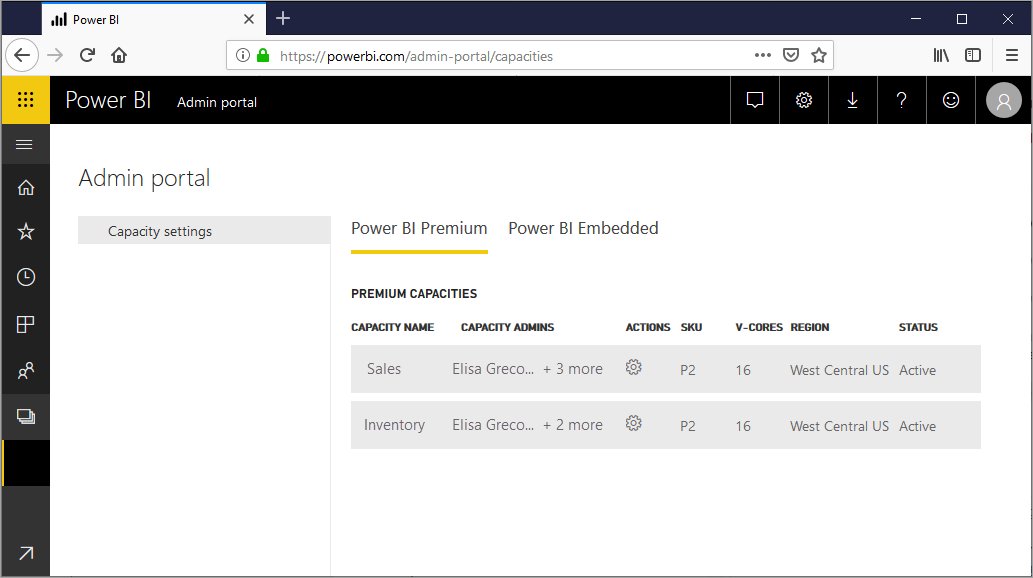
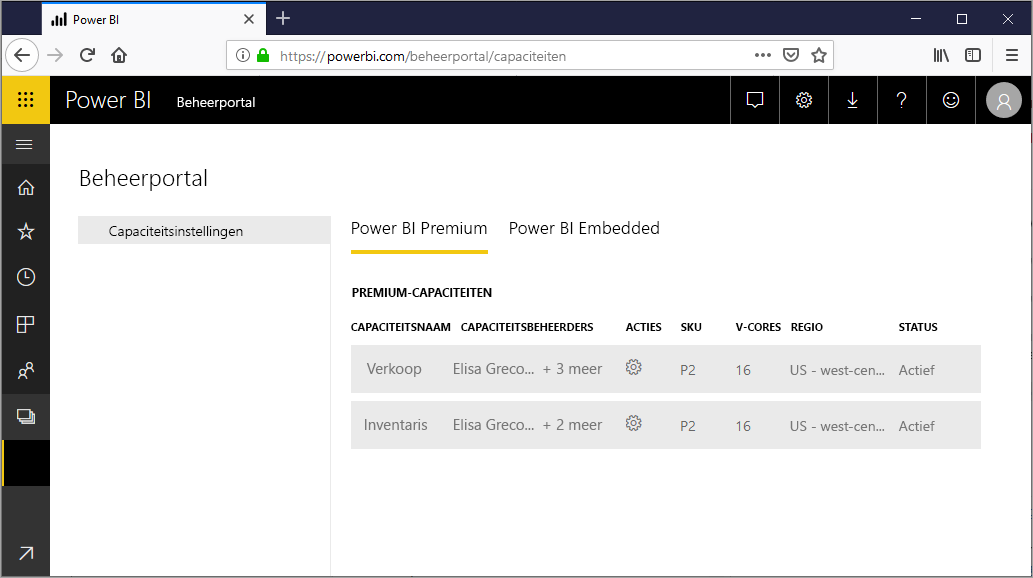
commit translated contents

diff --git a/powerbi-docs/learning-catalog/paginated-reports-online-course.md b/powerbi-docs/learning-catalog/paginated-reports-online-course.md
@@ -1,0 +1,119 @@
+---
+title: De cursus Gepagineerde rapporten in Power BI in een dag
+description: Deze online cursus biedt u, als rapportauteur, de technische kennis die vereist is voor het maken, publiceren en distribueren van gepagineerde Power BI-rapporten.
+author: peter-myers
+ms.reviewer: maggies
+featuredvideoid: DN1t5p9aui0
+ms.service: powerbi
+ms.subservice: report-builder
+ms.topic: tutorial
+ms.date: 03/18/2020
+ms.author: v-pemyer
+ms.openlocfilehash: 3b6c3f79b6695c670b942253ddd2c2b158dc3acc
+ms.sourcegitcommit: 250242fd6346b60b0eda7a314944363c0bacaca8
+ms.translationtype: HT
+ms.contentlocale: nl-NL
+ms.lasthandoff: 05/20/2020
+ms.locfileid: "83693231"
+---
+# <a name="power-bi-paginated-reports-in-a-day-course"></a>De cursus Gepagineerde rapporten in Power BI in een dag
+
+De videocursus **Gepagineerde Power BI-rapporten in een dag** biedt u, als rapportauteur, de technische kennis die vereist is voor het maken, publiceren en distribueren van gepagineerde Power BI-rapporten. Deze omvat bijna 4 uur en 20 minuten aan te bekijken inhoud, on demand beschikbaar, en is gratis. Er is ook een [zelfstudiekit](#self-study-kit), die u kunt downloaden en gebruiken om acht praktijklabs uit te voeren.
+
+De cursus is voornamelijk gericht op:
+
+- Auteurs van Power BI-rapporten
+- Excel-analisten
+- Auteurs van rapporten met SSRS-vaardigheden (SQL Server Reporting Services), die hun kennis willen opfrissen
+- Auteurs van Crystal-rapporten
+
+Nadat u de cursus hebt voltooid, kunt u het volgende:
+
+> [!div class="checklist"]
+> - Rapportindelingen ontwerpen
+> - Verbinding maken met gegevensbronnen om rapportgegevens op te halen
+> - Werken met parameters
+> - Rapportgegevens visualiseren
+> - Interactieve functies toevoegen
+> - Gepagineerde rapporten publiceren, gebruiken, leveren en insluiten
+
+Bekijk de welkomst- en inleidingsvideo om de cursus te starten.
+
+> [!VIDEO https://www.youtube.com/embed/DN1t5p9aui0]
+
+## <a name="course-outline"></a>Cursusoverzicht
+
+De [cursus van 24 video's](https://www.youtube.com/playlist?list=PL1N57mwBHtN1icIhpjQOaRL8r9G-wytpT) is onderverdeeld in acht modules. We raden u aan de video's te bekijken in de vastgelegde volgorde, beginnend bij video 01 en eindigend bij video 24.
+
+- **Inleiding**
+  - Video 01: [Welkom en cursusintroductie](https://www.youtube.com/watch?v=DN1t5p9aui0&list=PL1N57mwBHtN1icIhpjQOaRL8r9G-wytpT)
+- **Module 01: Power BI-rapportage**
+  - Video 02: [Power BI-rapportage - Deel 1](https://www.youtube.com/watch?v=s6Amctk3Z_g&list=PL1N57mwBHtN1icIhpjQOaRL8r9G-wytpT)
+  - Video 03: [Power BI-rapportage - Deel 2](https://www.youtube.com/watch?v=jXTiYJKw1Rs&list=PL1N57mwBHtN1icIhpjQOaRL8r9G-wytpT)
+- **Module 02: Rapportindelingen ontwerpen**
+  - Video 04: [Rapportindelingen ontwerpen - Deel 1](https://www.youtube.com/watch?v=EjHANN3rGNs&list=PL1N57mwBHtN1icIhpjQOaRL8r9G-wytpT)
+  - Video 05: [Rapportindelingen ontwerpen - Deel 2](https://www.youtube.com/watch?v=2CZIrJU_HZU&list=PL1N57mwBHtN1icIhpjQOaRL8r9G-wytpT)
+  - Video 06: [Rapportindelingen ontwerpen - Deel 3](https://www.youtube.com/watch?v=eaFFzkT6pxE&list=PL1N57mwBHtN1icIhpjQOaRL8r9G-wytpT)
+  - Video 07: [Rapportindelingen ontwerpen - Deel 4](https://www.youtube.com/watch?v=0z576TI27Vg&list=PL1N57mwBHtN1icIhpjQOaRL8r9G-wytpT)
+- **Module 03: Rapportgegevens ophalen**
+  - Video 08: [Rapportgegevens ophalen - Deel 1](https://www.youtube.com/watch?v=SHGTTYXtio0&list=PL1N57mwBHtN1icIhpjQOaRL8r9G-wytpT)
+  - Video 09: [Rapportgegevens ophalen - Deel 2](https://www.youtube.com/watch?v=1Dzd9wb7XUY&list=PL1N57mwBHtN1icIhpjQOaRL8r9G-wytpT)
+  - Video 10: [Rapportgegevens ophalen - Deel 3](https://www.youtube.com/watch?v=OFXG7sl5L2o&list=PL1N57mwBHtN1icIhpjQOaRL8r9G-wytpT)
+- **Module 04: Werken met parameters**
+  - Video 11: [Werken met parameters - Deel 1](https://www.youtube.com/watch?v=o7WaK88kheA&list=PL1N57mwBHtN1icIhpjQOaRL8r9G-wytpT)
+  - Video 12: [Werken met parameters - Deel 2](https://www.youtube.com/watch?v=okj6wO72clQ&list=PL1N57mwBHtN1icIhpjQOaRL8r9G-wytpT)
+  - Video 13: [Werken met parameters - Deel 3](https://www.youtube.com/watch?v=13-6sWIRD74&list=PL1N57mwBHtN1icIhpjQOaRL8r9G-wytpT)
+- **Module 05: Rapportgegevens visualiseren**
+  - Video 14: [Rapportgegevens visualiseren - Deel 1](https://www.youtube.com/watch?v=b4TxBBtOWSw&list=PL1N57mwBHtN1icIhpjQOaRL8r9G-wytpT)
+  - Video 15: [Rapportgegevens visualiseren - Deel 2](https://www.youtube.com/watch?v=JhEa_TugXeE&list=PL1N57mwBHtN1icIhpjQOaRL8r9G-wytpT)
+  - Video 16: [Rapportgegevens visualiseren - Deel 3](https://www.youtube.com/watch?v=dliLsRvQB-c&list=PL1N57mwBHtN1icIhpjQOaRL8r9G-wytpT)
+  - Video 17: [Rapportgegevens visualiseren - Deel 4](https://www.youtube.com/watch?v=5yHxuRRP_eU&list=PL1N57mwBHtN1icIhpjQOaRL8r9G-wytpT)
+- **Module 06: Interactieve functies toevoegen**
+  - Video 18: [Interactieve functies toevoegen - Deel 1](https://www.youtube.com/watch?v=LInMHpTEaI0&list=PL1N57mwBHtN1icIhpjQOaRL8r9G-wytpT)
+  - Video 19: [Interactieve functies toevoegen - Deel 2](https://www.youtube.com/watch?v=b_pr1xsbRJc&list=PL1N57mwBHtN1icIhpjQOaRL8r9G-wytpT)
+- **Module 07: Meer doen met rapportontwikkeling**
+  - Video 20: [Meer doen met rapportontwikkeling - Deel 1](https://www.youtube.com/watch?v=1CgDVDslwvs&list=PL1N57mwBHtN1icIhpjQOaRL8r9G-wytpT)
+  - Video 21: [Meer doen met rapportontwikkeling - Deel 2](https://www.youtube.com/watch?v=KRwtl7h0ynI&list=PL1N57mwBHtN1icIhpjQOaRL8r9G-wytpT)
+- **Module 08: Bonusinhoud**
+  - Video 22: [Bonusinhoud: Samenvatting](https://www.youtube.com/watch?v=w5zlJ8BodxI&list=PL1N57mwBHtN1icIhpjQOaRL8r9G-wytpT)
+  - Video 23: [Bonusinhoud: Ontwikkeling van gepagineerde rapporten](https://www.youtube.com/watch?v=pevpai65MvY&list=PL1N57mwBHtN1icIhpjQOaRL8r9G-wytpT)
+  - Video 24: [Bonusinhoud: De drempel voor toetreding verlagen](https://www.youtube.com/watch?v=vu32LfckCt8&list=PL1N57mwBHtN1icIhpjQOaRL8r9G-wytpT)
+
+## <a name="self-study-kit"></a>Zelfstudiekit
+
+U kunt een zelfstudiekit downloaden en instellen, die bestaat uit een presentatie van de inhoud en acht praktijklabs:
+
+1. Gebruik [deze koppeling](https://aka.ms/priad-student) om de zelfstudiekit (.zip) lokaal te downloaden naar uw pc.
+1. Open de bestandseigenschappen en schakel het selectievakje Blokkering opheffen in (Windows markeert het bestand mogelijk niet-vertrouwd).
+1. Pak de bestandsinhoud uit naar een map in uw bestandssysteem. Het wordt aanbevolen een map te maken die gemakkelijk te vinden is, met als mogelijke naam **Training**. De labdocumenten verwijzen naar deze locatie als **&lt;CourseFolder&gt;** .
+
+Zodra het bestand is uitgepakt, vindt u de map **PowerBIPRIAD**, waarin u de volgende mappen aantreft:
+
+- **Lab01A** (en alle andere labmappen). De labmappen bevatten het labdocument en labresources, eventueel met inbegrip van activa en oplossingsbestanden.
+- **MySolution**: In deze map worden uw oplossingsbestanden opgeslagen. Via de labinstructies krijgt u aanwijzingen wanneer u deze moet gebruiken.
+- **Presentatie**: Deze map bevat het bestand met een presentatie van de cursus, die beschikbaar is als PDF-document.
+
+### <a name="getting-started-with-the-kit"></a>Aan de slag met de kit
+
+Het wordt aanbevolen de onlinecursus eerst te bekijken. U kunt teruggaan naar de presentatietheorie door het bestand **&lt;CourseFolder&gt;\PowerBIPRIAD\Presentation\PowerBIPRIAD_Presentation.pdf** te openen. De presentatie bevat acht labdia's, die aangeven wanneer het tijd is om de theorie te oefenen. Deze bevat ook veel resourcekoppelingen waarmee u gerelateerde inhoud kunt vinden.
+
+Wanneer u klaar bent om met het eerste lab te beginnen, opent u het bestand **&lt;CourseFolder&gt;\PowerBIPRIAD\Lab01A\PowerBIPRIAD_Lab01A.pdf**. In dit document vindt u instructies voor het aanmelden bij de Power BI-service, het uploaden van een gegevensset en vervolgens het installeren van [Power BI Report Builder](../paginated-reports/report-builder-power-bi.md).
+
+> [!NOTE]
+> U bent zelf verantwoordelijk voor het gebruik van uw eigen Power BI-account. Als u er nog geen hebt, raadpleegt u [Registreren voor Power BI als individu](../fundamentals/service-self-service-signup-for-power-bi.md).
+>
+> U moet zich aanmelden bij Power BI om een Power BI Desktop-bestand te publiceren naar een werkruimte. De publicatie resulteert in een gegevensset die wordt gebruikt als rapportgegevensbron. U hebt geen Power BI Pro-licentie of een Power BI Premium-abonnement nodig om een gegevensset als rapportgegevensbron te gebruiken.
+>
+> Bij sommige labtaken moet u uw gepagineerde rapport naar een werkruimte publiceren. U kunt een gepagineerd rapport alleen openen wanneer dit is opgeslagen in een werkruimte op [toegewezen capaciteit](../admin/service-premium-what-is.md#dedicated-capacities), waarin de workload gepagineerde rapporten is ingeschakeld. Als u geen toegang hebt tot een geschikte werkruimte, wordt een koppeling weergegeven naar een video waarin de publicatie van het rapport wordt gedemonstreerd.
+
+## <a name="instructor-kit"></a>Kit voor docenten
+
+Gebruik [deze koppeling](https://aka.ms/priad-instructor) om de kit voor docenten (.zip) lokaal te downloaden naar uw pc.
+
+## <a name="next-steps"></a>Volgende stappen
+
+Bekijk de volgende resources voor meer informatie over dit artikel:
+
+- Zelfstudie: [Een gepagineerd rapport maken en uploaden naar de Power BI-service](../paginated-reports/paginated-reports-quickstart-aw.md)
+- Vragen? [Misschien dat de Power BI-community het antwoord weet](https://community.powerbi.com/)
+- Suggesties? [Ideeën bijdragen om Power BI te verbeteren](https://ideas.powerbi.com/)

diff --git a/powerbi-docs/admin/service-admin-signing-up-for-power-bi-with-a-new-office-365-trial.md b/powerbi-docs/admin/service-admin-signing-up-for-power-bi-with-a-new-office-365-trial.md
@@ -6,57 +6,57 @@ ms.reviewer: ''
 ms.service: powerbi
 ms.subservice: powerbi-admin
 ms.topic: conceptual
-ms.date: 04/24/2020
+ms.date: 05/17/2020
 ms.author: mihart
 LocalizationGroup: Administration
-ms.openlocfilehash: b74d06c9be03ae98fb6c8b2e38f665f9bbcc92b1
-ms.sourcegitcommit: bfc2baf862aade6873501566f13c744efdd146f3
+ms.openlocfilehash: 9db228253e0e88105108a1b3a5eaf725c73e0abb
+ms.sourcegitcommit: a72567f26c1653c25f7730fab6210cd011343707
 ms.translationtype: HT
 ms.contentlocale: nl-NL
-ms.lasthandoff: 05/13/2020
-ms.locfileid: "83345050"
+ms.lasthandoff: 05/19/2020
+ms.locfileid: "83563643"
 ---
 # <a name="signing-up-for-power-bi-with-a-new-microsoft-365-trial"></a>Registreren voor Power BI met een nieuwe proefversie van Microsoft 365
 
-In dit artikel wordt een alternatieve manier beschreven om u te registreren voor Power BI, als u nog geen e-mailaccount voor werk of school hebt. 
+In dit artikel wordt een alternatieve manier beschreven om u te registreren voor Power BI, als u nog geen e-mailaccount voor werk of school hebt.
 
 Als het niet lukt om u met uw e-mailadres te registreren voor Power BI, controleert u eerst of het wel een [e-mailadres is dat kan worden gebruikt met Power BI](../fundamentals/service-self-service-signup-for-power-bi.md#supported-email-addresses). Als dat niet lukt, registreert u zich voor een Microsoft 365-proefversie en maakt u een werkaccount. Gebruik vervolgens dat nieuwe werkaccount om u te registreren voor de Power BI-service. U kunt Power BI ook na afloop van de proefversie van Microsoft 365 nog gebruiken.
 
 > [!NOTE]
 > De naam Office 365 is onlangs gewijzigd in Microsoft 365. Tot al onze artikelen zijn bijgewerkt, kunt u de aanduiding Office 365 nog steeds tegenkomen.
 
-1. Meld u aan voor een proefversie van Microsoft 365 [op de website van Microsoft 365](https://www.microsoft.com/en-us/microsoft-365/business/compare-more-office-365-for-business-plans).
+## <a name="sign-up-for-a-microsoft-365-trial-of-office"></a>Meld u aan voor een proefversie van Microsoft 365 van Office
+Meld u aan voor een proefversie van Microsoft 365 [op de website van Microsoft 365](https://www.microsoft.com/microsoft-365/business/compare-more-office-365-for-business-plans). Als u nog geen account hebt, helpt Microsoft u met stapsgewijze instructies om er een te maken. Omdat commerciële e-mailaccounts (zoals Hotmail en Gmail) niet werken met Microsoft 365, maakt u een nieuw account dat wel werkt.  Dit e-mail account ziet er ongeveer als volgt uit: *zalan@onmicrosoft.com* .
 
-    ![welkomstpagina](media/service-admin-signing-up-for-power-bi-with-a-new-office-365-trial/power-bi-try-now.png)
+![Selecteer Gratis proberen](media/service-admin-signing-up-for-power-bi-with-a-new-office-365-trial/power-bi-try-free.png)
 
-    ![Kiezen om u te registreren voor een nieuw account](media/service-admin-signing-up-for-power-bi-with-a-new-office-365-trial/power-bi-existing.png)
+Als u **Office 365 E5** selecteert, bevat uw proefversie ook Power BI Pro. De proefversie van Power BI Pro verloopt op hetzelfde moment als uw proefversie van Office 365 E5, die momenteel 30 dagen geldig is. Als u in plaats daarvan **Office 365 E3** selecteert, kunt u zich als *gratis* gebruiker aanmelden voor Power BI en upgraden naar **Pro** voor een proefversie van 60 dagen. 
 
-    ![een werk- of schoolaccount maken](media/service-admin-signing-up-for-power-bi-with-a-new-office-365-trial/power-bi-create-email.png)
+1. Voer uw e-mailadres in. Microsoft laat u weten of dat e-mailadres werkt met Microsoft 365 of dat u een nieuw e-mailadres moet maken.  ![welkomstpagina](media/service-admin-signing-up-for-power-bi-with-a-new-office-365-trial/power-bi-setup.png)
 
-    ![Kiezen om u te registreren voor een nieuw account](media/service-admin-signing-up-for-power-bi-with-a-new-office-365-trial/power-bi-no-email.png)
+    Als u een nieuw e-mailadres nodig hebt, helpt Microsoft u met stapsgewijze instructies om er een te maken. Eerst moet u een nieuw account maken. Selecteer **Account instellen**.
 
-    ![uw contactgegevens invoeren](media/service-admin-signing-up-for-power-bi-with-a-new-office-365-trial/power-bi-welcome-you.png)
+    ![Kiezen om u te registreren voor een nieuw account](media/service-admin-signing-up-for-power-bi-with-a-new-office-365-trial/power-bi-email.png)
 
-    
+2. Voer details over het nieuwe account in.
 
-1. Maak uw nieuwe zakelijke aanmeldingsnaam die eruitziet als you@yourcompany.onmicrosoft.com. Gebruik deze aanmelding met Power BI.
+    ![een werk- of schoolaccount maken](media/service-admin-signing-up-for-power-bi-with-a-new-office-365-trial/power-bi-enter-info.png)
 
-    ![werkadres maken](media/service-admin-signing-up-for-power-bi-with-a-new-office-365-trial/power-bi-create-address.png)
+3. Maak een nieuw e-mailadres en wachtwoord. Maak een nieuwe aanmeldingsnaam die eruitziet als you@yourcompany.onmicrosoft.com. Dit zijn de aanmeldingsgegevens die u gebruikt voor uw nieuwe Office 365-account en voor Power BI.
 
-    ![code ophalen op basis van tekst](media/service-admin-signing-up-for-power-bi-with-a-new-office-365-trial/power-bi-robot.png)    
+    ![Kiezen om u te registreren voor een nieuw account](media/service-admin-signing-up-for-power-bi-with-a-new-office-365-trial/power-bi-create-account.png)
 
-1. Mogelijk moet u wachten terwijl de nieuwe tenant wordt gemaakt. 
+4. Dat is alles.  U hebt nu een e-mailadres dat u kunt gebruiken om u te registreren voor Power BI. Doorgaan om [u als zelfstandige gebruiker te registreren voor de Power BI-service](../service-self-service-signup-for-power-bi.md)
 
-Dat is alles.  U hebt nu een e-mailadres dat u kunt gebruiken om u te registreren voor Power BI. Doorgaan om [u als zelfstandige gebruiker te registreren voor de Power BI-service](../fundamentals/service-self-service-signup-for-power-bi.md)
+     ![uw contactgegevens invoeren](media/service-admin-signing-up-for-power-bi-with-a-new-office-365-trial/power-bi-thank.png)
 
-
-
-
+    Mogelijk moet u wachten terwijl de nieuwe tenant wordt gemaakt.
 
 ## <a name="important-considerations"></a>Belangrijke overwegingen
-Als er problemen zijn met het aanmelden met het nieuwe account, probeer het dan met een persoonlijke browsersessie.    
 
-Als u deze aanmeldingsmethode gebruikt, maakt u een nieuwe organisatietenant en wordt u de beheerder van de tenant. Zie [Wat is Power BI-beheer?](service-admin-administering-power-bi-in-your-organization.md) voor meer informatie. U kunt nieuwe gebruikers toevoegen aan uw tenant en vervolgens met hun delen, zoals wordt beschreven in de [documentatie voor Microsoft 365-beheerders](https://support.office.com/en-sg/article/Add-users-individually-to-Office-365---Admin-Help-1970f7d6-03b5-442f-b385-5880b9c256ec).
+Als er problemen zijn met het aanmelden met het nieuwe account, probeer het dan met een persoonlijke browsersessie.
+
+Als u deze aanmeldingsmethode gebruikt, maakt u een nieuwe organisatietenant en wordt u de beheerder van de tenant. Zie [Wat is Power BI-beheer?](service-admin-administering-power-bi-in-your-organization.md) voor meer informatie. U kunt nieuwe gebruikers toevoegen aan uw tenant en vervolgens met hun delen, zoals wordt beschreven in de [documentatie voor Microsoft 365-beheerders](https://support.office.com/article/Add-users-individually-to-Office-365---Admin-Help-1970f7d6-03b5-442f-b385-5880b9c256ec).
 
 ## <a name="next-steps"></a>Volgende stappen
 

diff --git a/powerbi-docs/collaborate-share/service-manage-app-workspace-in-power-bi-and-office-365.md b/powerbi-docs/collaborate-share/service-manage-app-workspace-in-power-bi-and-office-365.md
@@ -1,6 +1,6 @@
 ---
-title: Uw werkruimte beheren in Power BI en Office 365
-description: Werkruimten in Power BI zijn een samenwerkingsfunctie die is gebaseerd op Office 365-groepen. Beheer uw werkruimten in Power BI en ook in Office 365.
+title: Uw werkruimte beheren in Power BI en Microsoft 365
+description: Werkruimten in Power BI zijn een samenwerkingsfunctie die is gebaseerd op Microsoft 365-groepen. Beheer uw werkruimten in Power BI en ook in Microsoft 365.
 author: maggiesMSFT
 ms.reviewer: lukasz
 ms.service: powerbi
@@ -9,27 +9,27 @@ ms.topic: conceptual
 ms.date: 03/02/2020
 ms.author: maggies
 LocalizationGroup: Share your work
-ms.openlocfilehash: 27f3c88607f57be8b5abffdbec71ecfe80beea23
-ms.sourcegitcommit: bfc2baf862aade6873501566f13c744efdd146f3
+ms.openlocfilehash: 1365eba697538255ea8c23b03f0b5db71a7ba1cd
+ms.sourcegitcommit: 250242fd6346b60b0eda7a314944363c0bacaca8
 ms.translationtype: HT
 ms.contentlocale: nl-NL
-ms.lasthandoff: 05/13/2020
-ms.locfileid: "83348063"
+ms.lasthandoff: 05/20/2020
+ms.locfileid: "83693806"
 ---
-# <a name="manage-your-workspace-in-power-bi-and-office-365"></a>Uw werkruimte beheren in Power BI en Office 365
+# <a name="manage-your-workspace-in-power-bi-and-microsoft-365"></a>Uw werkruimte beheren in Power BI en Microsoft 365
 
-Als maker of beheerder van een [werkruimte in Power BI](service-create-distribute-apps.md) of in Office 365, beheert u bepaalde aspecten van de werkruimte in Power BI. Andere aspecten beheert u in Office 365.
+Als maker of beheerder van een [werkruimte in Power BI](service-create-distribute-apps.md) of in Microsoft 365, beheert u bepaalde aspecten van de werkruimte in Power BI. Andere aspecten beheert u in Microsoft 365.
 
 > [!NOTE]
-> In de nieuwe werkruimte-ervaring is de relatie tussen Power BI-werkruimten en Office 365-groepen gewijzigd. Er wordt niet automatisch een Office 365-groep gemaakt wanneer u een van de nieuwe werkruimten maakt. Meer informatie over [het maken van de nieuwe werkruimten](service-create-the-new-workspaces.md).
+> In de nieuwe werkruimte-ervaring is de relatie tussen Power BI-werkruimten en Microsoft 365-groepen gewijzigd. Er wordt niet automatisch een Microsoft 365-groep gemaakt wanneer u een van de nieuwe werkruimten maakt. Meer informatie over [het maken van de nieuwe werkruimten](service-create-the-new-workspaces.md).
 
 In **Power BI** kunt u:
 
 * Leden aan een werkruimte toevoegen of hieruit verwijderen. U kunt een lid van de werkruimte ook beheerder maken.
 * Bewerk de naam van de werkruimte.
-* Verwijder de werkruimte. Hierdoor wordt ook de Office 365-groep verwijderd.
+* Verwijder de werkruimte. Hierdoor wordt ook de Microsoft 365-groep verwijderd.
 
-In **Office 365** kunt u:
+In **Microsoft 365** kunt u het volgende doen:
 
 * Groepsleden aan uw werkruimte toevoegen of hieruit verwijderen. U kunt een lid ook eigenaar maken.
 * De groepsnaam, afbeelding, beschrijving en andere instellingen bewerken.
@@ -53,9 +53,9 @@ U hebt een [Power BI Pro](../fundamentals/service-features-license-type.md)-lice
 
 1. Selecteer **Opslaan** of **Annuleren**.
 
-## <a name="edit-power-bi-workspace-properties-in-office-365"></a>Eigenschappen van een Power BI-werkruimte bewerken in Office 365
+## <a name="edit-power-bi-workspace-properties-in-microsoft-365"></a>Eigenschappen van een Power BI-werkruimte bewerken in Microsoft 365
 
-U kunt aspecten van een werkruimte ook rechtstreeks bewerken in Outlook voor Office 365.
+U kunt aspecten van een werkruimte ook rechtstreeks bewerken in Outlook voor Microsoft 365.
 
 ### <a name="edit-the-members-of-the-workspace-group"></a>De leden van de werkruimtegroep bewerken
 
@@ -63,17 +63,17 @@ U kunt aspecten van een werkruimte ook rechtstreeks bewerken in Outlook voor Off
 
    ![Werkruimten bewerken in Power BI](media/service-manage-app-workspace-in-power-bi-and-office-365/power-bi-app-ellipsis-members.png)
 
-   Hiermee opent u de groepsweergave van Outlook voor Office 365 van uw werkruimte. Mogelijk moet u zich aanmelden bij uw bedrijfsaccount.
+   Hiermee opent u de groepsweergave van Outlook voor Microsoft 365 van uw werkruimte. Mogelijk moet u zich aanmelden bij uw bedrijfsaccount.
 
 1. Selecteer de rol naast de naam van een teamlid om deze persoon **lid** of **eigenaar** te maken. Selecteer de **X** om de persoon uit de groep te verwijderen.
 
-   ![Een groep bewerken in Office 365](media/service-manage-app-workspace-in-power-bi-and-office-365/pbi_managegroupo365.png)
+   ![Een groep bewerken in Microsoft 365](media/service-manage-app-workspace-in-power-bi-and-office-365/pbi_managegroupo365.png)
 
 ### <a name="add-an-image-and-set-other-workspace-properties"></a>Een afbeelding toevoegen en andere werkruimte-eigenschappen instellen
 
-Wanneer u uw app distribueert vanuit de werkruimte, is de afbeelding die u hier toevoegt de afbeelding voor uw app. Zie [Een afbeelding toevoegen aan uw Office 365-werkruimte](service-create-workspaces.md#add-an-image-to-your-office-365-workspace-optional) in het artikel **De nieuwe werkruimten maken**.
+Wanneer u uw app distribueert vanuit de werkruimte, is de afbeelding die u hier toevoegt de afbeelding voor uw app. Zie [Een afbeelding toevoegen aan uw Microsoft 365-werkruimte](service-create-workspaces.md#add-an-image-to-your-microsoft-365-workspace-optional) in het artikel **De nieuwe werkruimten maken**.
 
-1. Ga in de Outlook voor Office 365-weergave van uw werkruimte naar het tabblad **Over** en selecteer **Bewerken**.
+1. Ga in de Outlook voor Microsoft 365-weergave van uw werkruimte naar het tabblad **Over** en selecteer **Bewerken**.
 
     ![Pictogram Groep bewerken](media/service-manage-app-workspace-in-power-bi-and-office-365/pbi_editgroupo365.png)
 1. U kunt de naam, beschrijving en taal bewerken voor groepsgerelateerde meldingen. U kunt hier ook een afbeelding toevoegen en andere eigenschappen instellen.
@@ -86,4 +86,4 @@ Wanneer u uw app distribueert vanuit de werkruimte, is de afbeelding die u hier 
 
 * [Een app publiceren in Power BI](service-create-distribute-apps.md)
 
-* Nog vragen? [Misschien dat de Power BI-community het antwoord weet](https://community.powerbi.com/)
+* Hebt u nog vragen? [Misschien dat de Power BI-community het antwoord weet](https://community.powerbi.com/)

diff --git a/powerbi-docs/developer/visuals/power-bi-custom-visuals.md b/powerbi-docs/developer/visuals/power-bi-custom-visuals.md
@@ -10,12 +10,12 @@ ms.subservice: powerbi-desktop
 ms.topic: overview
 ms.date: 01/03/2019
 LocalizationGroup: Visualizations
-ms.openlocfilehash: 22c367dbc6160928541570bf2de37c51edcbfc14
-ms.sourcegitcommit: 7aa0136f93f88516f97ddd8031ccac5d07863b92
+ms.openlocfilehash: e9dc53eb3f49a1ef62e4e3539ac7eb6d92b317af
+ms.sourcegitcommit: a72567f26c1653c25f7730fab6210cd011343707
 ms.translationtype: HT
 ms.contentlocale: nl-NL
-ms.lasthandoff: 05/05/2020
-ms.locfileid: "80550864"
+ms.lasthandoff: 05/19/2020
+ms.locfileid: "83561634"
 ---
 # <a name="visuals-in-power-bi"></a>Visuals in Power BI
 
@@ -41,7 +41,7 @@ Microsoft en Communityleden hebben ten behoeve van het algemene belang Power BI-
 
 ### <a name="what-is-appsource"></a>Wat is AppSource?
 
-In [AppSource](https://appsource.microsoft.com/marketplace/apps?product=power-bi-visuals) vindt u apps, invoegtoepassingen en uitbreidingen voor uw Microsoft-software. AppSource is de plek waar miljoenen gebruikers van producten zoals Office 365, Azure, Dynamics 365, Cortana en Power BI oplossingen vinden die hen helpen efficiënter en slimmer te werken.
+In [AppSource](https://appsource.microsoft.com/marketplace/apps?product=power-bi-visuals) vindt u apps, invoegtoepassingen en uitbreidingen voor uw Microsoft-software. AppSource is de plek waar miljoenen gebruikers van producten zoals Microsoft 365, Azure, Dynamics 365, Cortana en Power BI oplossingen vinden die hen helpen efficiënter en slimmer te werken.
 
 ### <a name="certified-power-bi-visuals"></a>Gecertificeerde visuals in Power BI
 
@@ -80,4 +80,4 @@ Als u een webontwikkelaar bent en geïnteresseerd bent in het maken van uw eigen
 
 * Verken de [richtlijnen voor Power BI-visuals](guidelines-powerbi-visuals.md).
 
-Nog vragen? Ga naar de pagina [Veelgestelde vragen over Power BI-visuals](power-bi-custom-visuals-faq.md) of de [Power BI-community](https://community.powerbi.com/).
+Hebt u nog vragen? Ga naar de pagina [Veelgestelde vragen over Power BI-visuals](power-bi-custom-visuals-faq.md) of de [Power BI-community](https://community.powerbi.com/).
